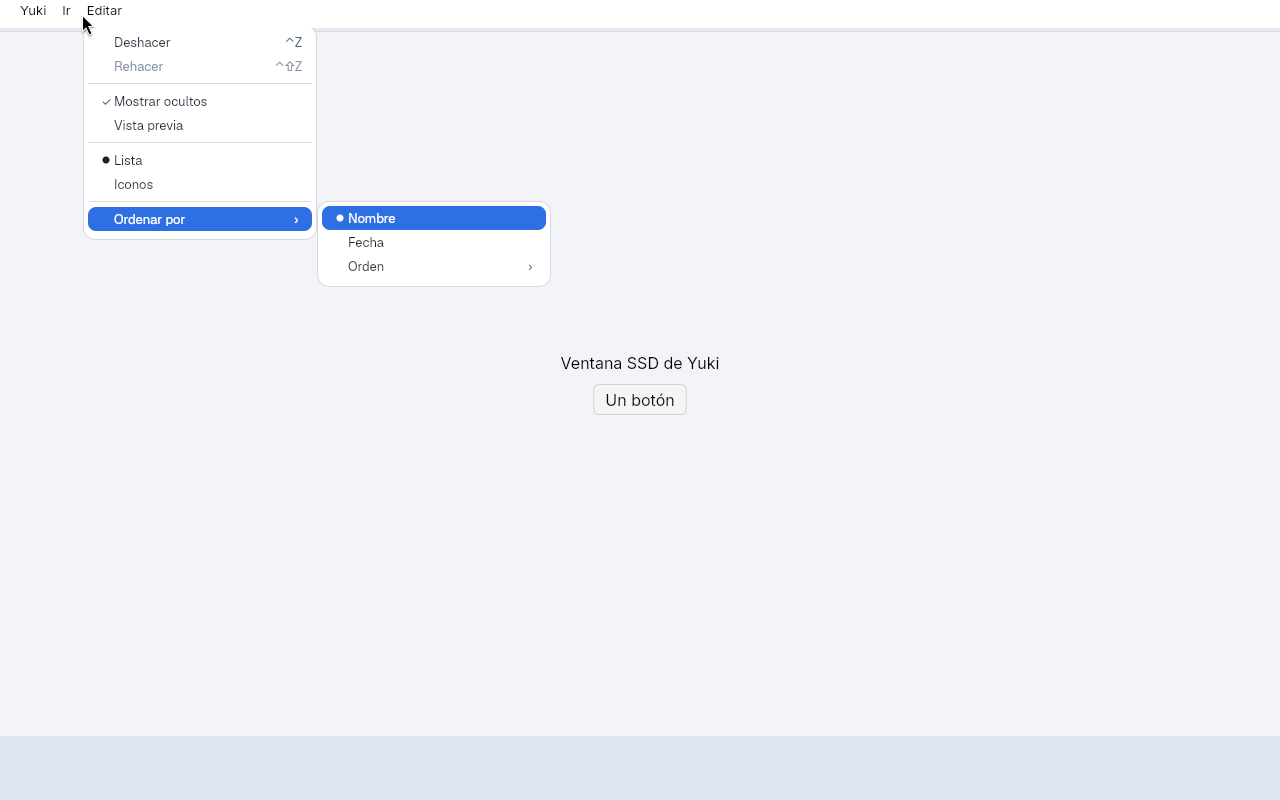
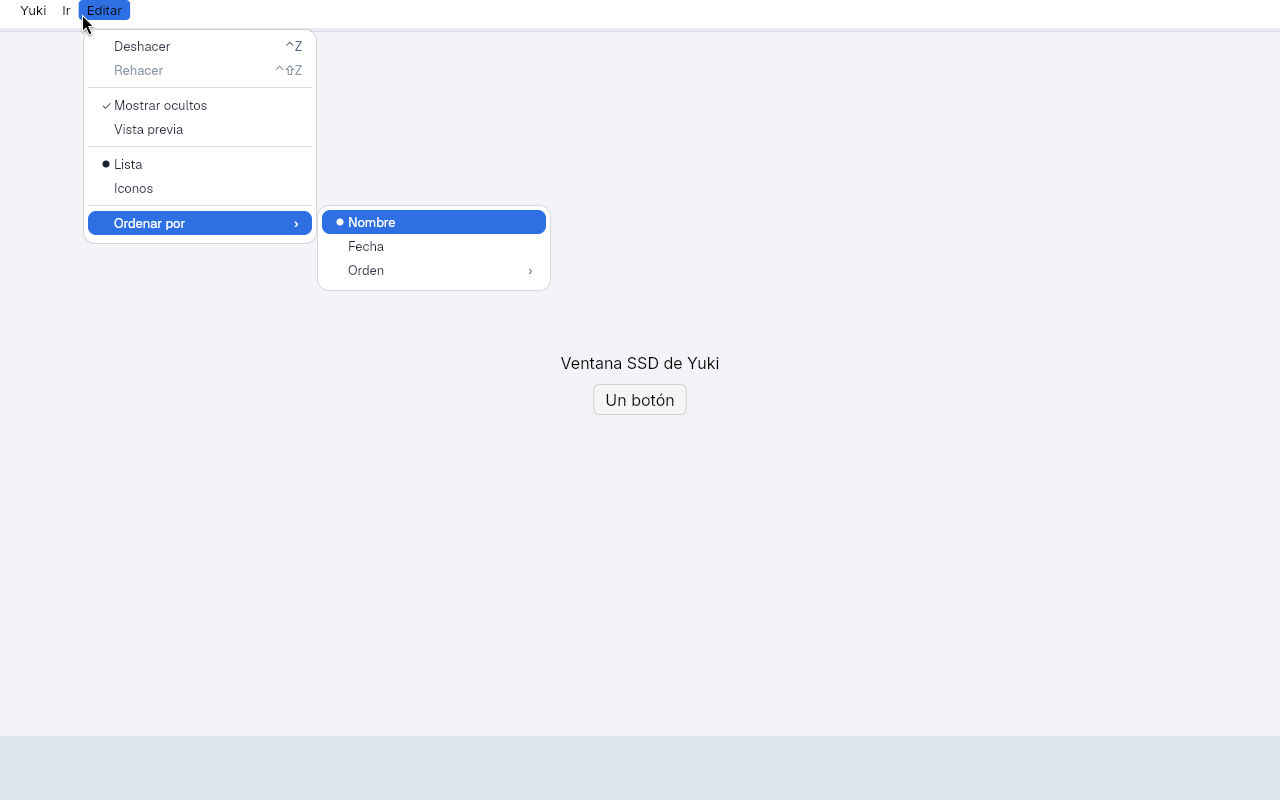
docs(14a): capturas y notas de anclado, truncado y navegación por teclado

Changed region(s): [[0.0625, 0.0, 0.4375, 0.3438], [0.2188, 0.0312, 0.25, 0.0938]]

diff --git a/docs/bloques/14-menu-global.md b/docs/bloques/14-menu-global.md
@@ -25,11 +25,17 @@ La integración completa con `yuki-shell menubar` queda para el siguiente paso.
   - El control toma su paleta del tema activo a través de
     `celestial_kit::theme::menu_palette` (`MENU_LIGHT` / `MENU_DARK` /
     `MENU_DARK_TINT`). No hay colores fijos.
+  - El ancho del panel está limitado por `shell.menu.panel.max-width` (480 px
+    en Neptunia). Las etiquetas largas se truncan por el medio con «…»;
+    atajos y chevrons nunca se ocultan ni se parten.
+  - El menú raíz se ancla al borde inferior del rectángulo del título que lo
+    abre: queda pegado a la barra, con el título resaltado mientras el menú
+    permanece abierto.
   - Si no hay contexto de popup (previews, tests), `MenuView` se dibuja igual y
     simplemente no abre submenús.
   - Tests golden en `tests/golden/menu-view-{light,dark}.png` cubriendo item
-    normal, resaltado, deshabilitado, atajo, casilla, radio, separador y
-    chevron.
+    normal, resaltado, deshabilitado, atajo, casilla, radio, separador,
+    chevron y truncado por el medio.
 
 ## API
 
@@ -60,12 +66,15 @@ let view = MenuView::new(
 
 ## Ejemplo
 
-`celestial-kit/examples/menu_popup.rs` levanta una barra `layer-shell` de 28 px
-con `keyboard_interactivity = None`. Tiene entradas (`Yuki`, `Ir`, `Editar`)
+`celestial-kit/examples/menu_popup.rs` levanta una barra `layer-shell` cuya
+altura viene del token `MENUBAR_HEIGHT` de Neptunia y usa
+`keyboard_interactivity = None`. Tiene entradas (`Yuki`, `Ir`, `Editar`)
 que abren menús con submenús de dos niveles, casillas, radios y items
-deshabilitados. Los atajos se pasan como texto (`Ctrl+Shift+G`, `Alt+Inicio`)
-y el control los formatea con los glifos de macOS (`⌃⇧G`, `⌥Inicio`) en el
-orden `⌃⌥⇧❖`, sin `+` ni el glifo de Command.
+deshabilitados. El menú raíz se ancla al borde inferior del título (sin
+espacio extra), y el título permanece resaltado mientras su menú esté abierto.
+Los atajos se pasan como texto (`Ctrl+Shift+G`, `Alt+Inicio`) y el control
+los formatea con los glifos de macOS (`⌃⇧G`, `⌥Inicio`) en el orden
+`⌃⌥⇧❖`, sin `+` ni el glifo de Command.
 
 Para muestras sin entrada real, `MENU_POPUP_SHOW=<caso>` abre el menú por la
 API (sin grab) y lo deja abierto: `ir` abre «Ir» bajo su título, `editar-sub`
@@ -125,9 +134,12 @@ y un script de `YUKI_TEST_INPUT`:
 - **e.** Con foot enfocado, abrir y cerrar el menú produce
   `wl_keyboard.leave` y después `wl_keyboard.enter` en foot.
 - **f.** Navegación por teclado: abrir «Editar», bajar cinco veces hasta
-  «Ordenar por» (saltando «Rehacer» y los separadores), `→` abre el submenú con
-  «Nombre» enfocado y otro `key:Down` selecciona «Fecha». Se capturan los cuatro
-  estados con `SIGUSR1`; la secuencia usa solo teclado.
+  «Ordenar por» (saltando «Rehacer», separadores y items no seleccionables),
+  `→` abre el submenú con «Nombre» enfocado y otro `key:Down` selecciona
+  «Fecha». Se capturan los cuatro estados con `SIGUSR1`; la secuencia usa solo
+  teclado. El runner fuerza un redraw de todas las superficies cuando un popup
+  recibe una tecla, porque el compositor aún no repinta la salida solo por
+  daño de popup.
 - **g.** Un solo árbol abierto: abrir «Yuki» y luego pulsar «Editar» cierra el
   primero y abre el segundo; la captura muestra solo el menú de «Editar».
 
@@ -200,12 +212,13 @@ la línea exterior negra (`window-outer`) y la interior clara (`window-inner`).
 
 ![Navegación por teclado 1/4: menú abierto](img/14a/teclado-1.png)
 
-`teclado-1.png`: clic en «Editar»; el menú se abre con «Deshacer» enfocado.
+`teclado-1.png`: clic en «Editar»; el título se resalta y el menú se abre con
+«Deshacer» enfocado, pegado al borde inferior de la barra.
 
-![Navegación por teclado 2/4: «Ordenar por»](img/14a/teclado-2.png)
+![Navegación por teclado 2/4: «Iconos»](img/14a/teclado-2.png)
 
 `teclado-2.png`: `key:Down` × 5; el foco salta «Rehacer», separadores y items
-no seleccionables hasta «Ordenar por».
+no seleccionables hasta «Iconos».
 
 ![Navegación por teclado 3/4: submenú abierto](img/14a/teclado-3.png)
 
@@ -214,13 +227,24 @@ no seleccionables hasta «Ordenar por».
 ![Navegación por teclado 4/4: «Fecha»](img/14a/teclado-4.png)
 
 `teclado-4.png`: `key:Down` mueve el foco a «Fecha». La secuencia usa solo
-teclado; el runner comite un buffer nuevo tras cada evento de tecla, así que
-el compositor repinta sin necesidad de mover el puntero.
+teclado.
 
 ![Menús más anchos](img/14a/menus-anchos.png)
 
 `menus-anchos.png`: mismo menú con los tokens ajustados: ancho mínimo 220 px,
-`shortcut-gap` 24 px y relleno derecho 10 px.
+`shortcut-gap` 24 px, relleno derecho 10 px y ancla pegada al borde inferior
+de la barra con el título resaltado.
+
+![Menú anclado a la barra](img/14a/pegado-a-la-barra.png)
+
+`pegado-a-la-barra.png`: menú «Ir» abierto; el panel arranca exactamente en el
+borde inferior de la barra, sin espacio, y el título «Ir» permanece
+resaltado.
+
+![Detalle del anclado a la barra](img/14a/pegado-a-la-barra-zoom.png)
+
+`pegado-a-la-barra-zoom.png`: zoom ×4 de la unión entre el título resaltado y
+el borde superior del panel; no hay hueco entre ambos.
 
 ![Un solo árbol de menús a la vez](img/14a/un-solo-arbol.png)
 
